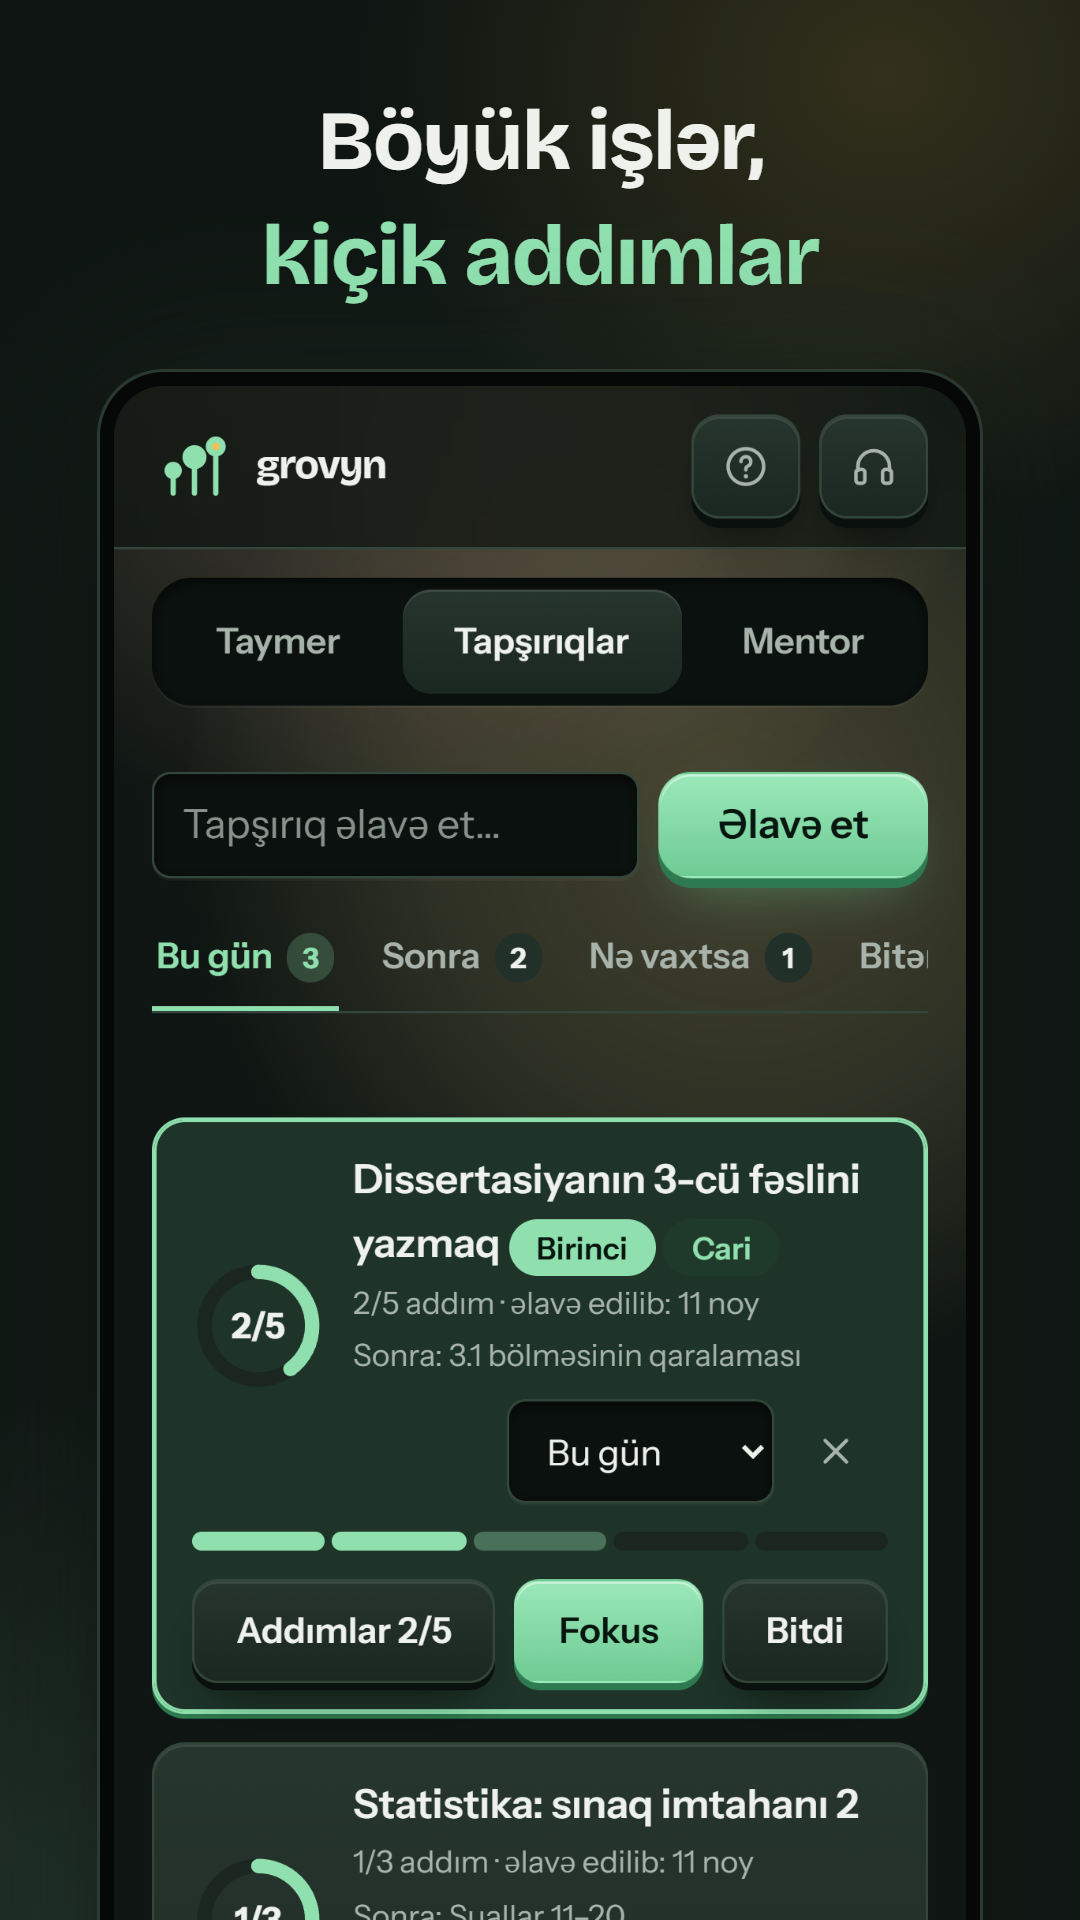
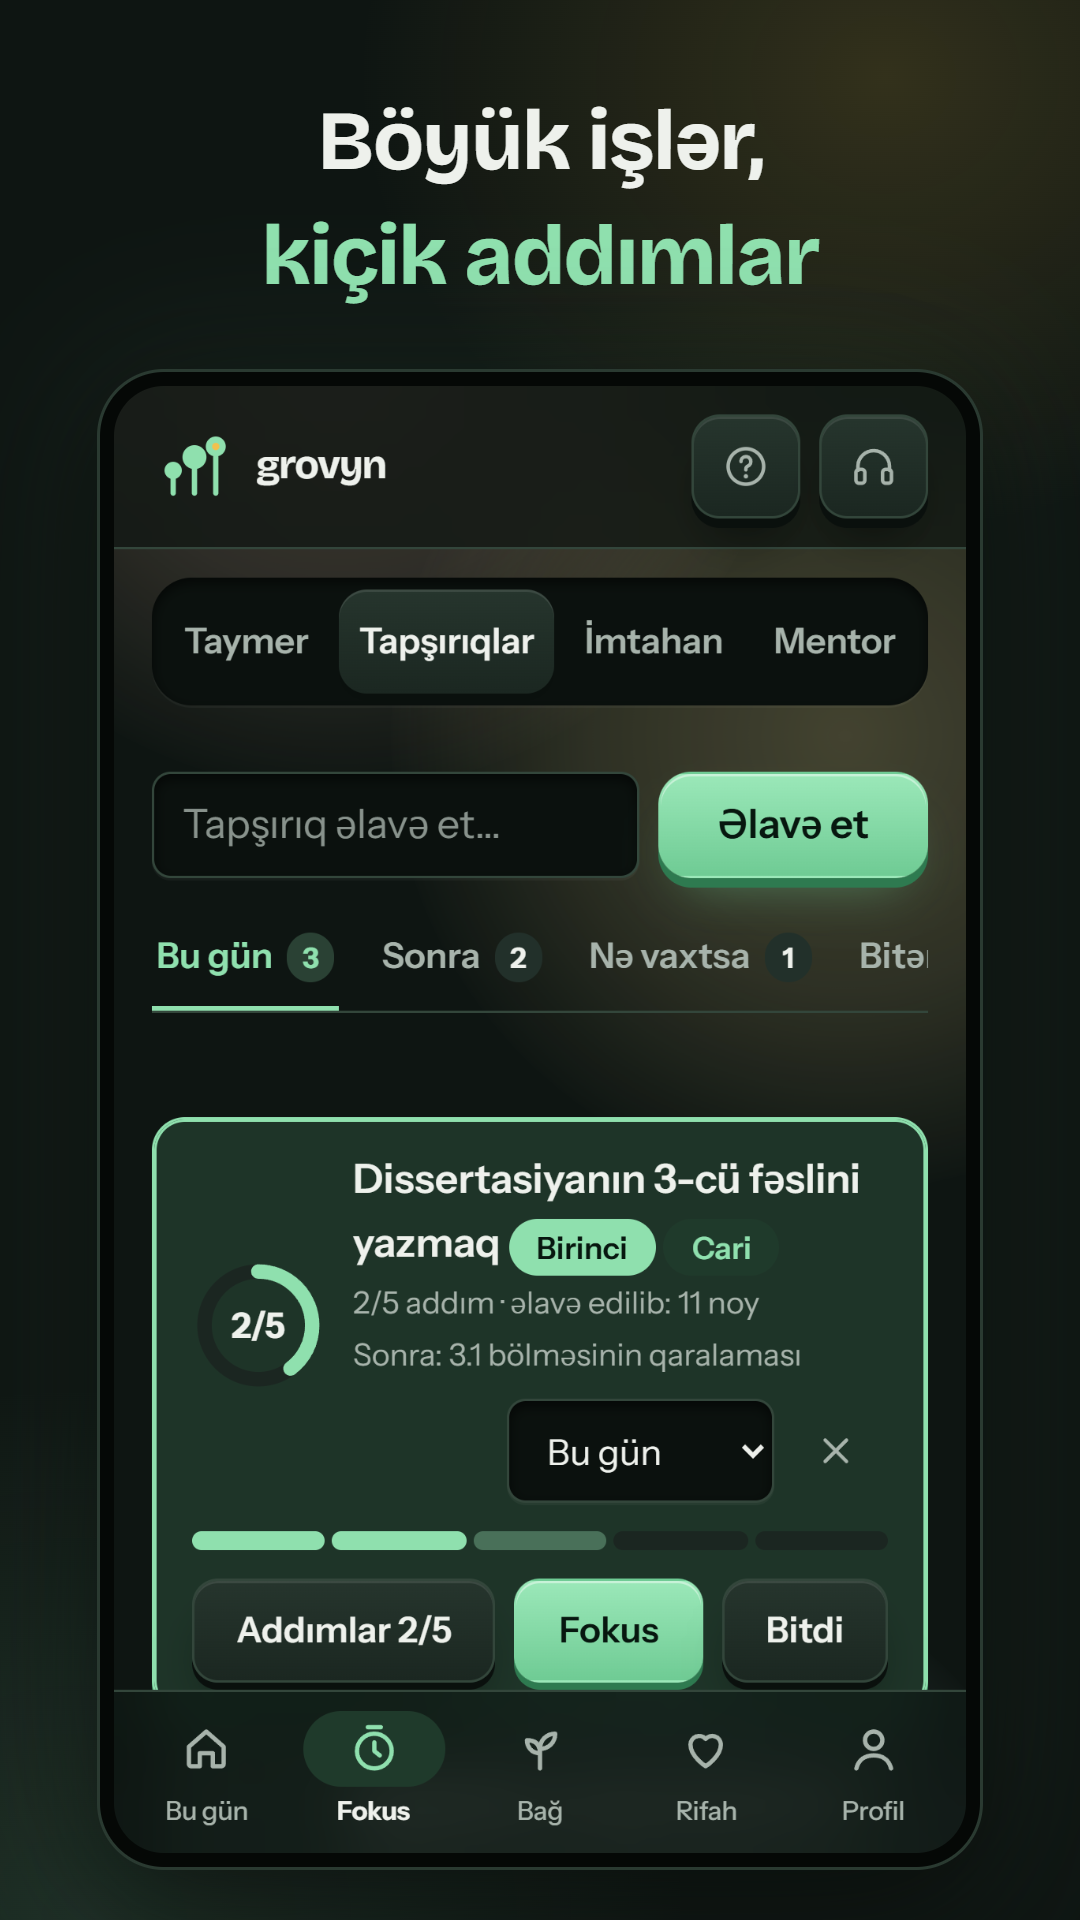
Play: a closed-test checklist, and store screenshots that show the five-tab app
docs/closed-test.md walks through the closed test in order: the upload key, the signed
bundle, Play Console, both SHA-1s in Firebase, 15+ testers for 14 days, then production.
It has tester invites and release notes in English, Russian and Azerbaijani, and a log
for the production application.

The store screenshots showed the old four-tab bar, cut off below the frame. Every screen
frame is now made with Health and Budget on (one Life tab) on a shorter phone, so the
whole five-tab bar is in view. Russian and Azerbaijani show «Ментор» and «Rifah».

Changed region(s): [[0.0917, 0.875, 0.9167, 1.0], [0.1833, 0.2812, 0.825, 0.4062], [0.3361, 0.4375, 0.6417, 0.5938]]

diff --git a/docs/closed-test.md b/docs/closed-test.md
@@ -1,0 +1,134 @@
+# Closed test on Google Play
+
+New personal developer accounts must run a **closed test with at least 12 testers opted in
+for 14 days in a row** before they can apply for production. This page is the checklist,
+in order. Each step says who does it. How to build and sign is in `release.md`. The Console
+answers are in `play-console-answers.md`, and the listing text is in `play-listing.md`.
+
+Prepared 14 Nov 2026. The Play bundle (`app.grovyn`, version 0.1.0, versionCode 100) builds
+with `npm run release`, signed with the upload key made on 14 Nov.
+
+## 1. Upload key (you, once, about 5 minutes)
+
+It asks for passwords, so you run it yourself, in a terminal:
+
+```bash
+mkdir -p ~/.grovyn
+"/c/Program Files/Android/Android Studio/jbr/bin/keytool.exe" -genkeypair -v -keystore ~/.grovyn/grovyn-upload.jks -alias upload -keyalg RSA -keysize 2048 -validity 10000
+```
+
+Then create `C:\Users\<you>\.grovyn\keystore.properties` with the four lines from
+`release.md`. **Save the `.jks` file and both passwords in your password manager now.**
+Keep them out of OneDrive and out of the repository.
+
+## 2. Signed bundle (Claude, or you: `npm run release`)
+
+- Builds `grovyn-play-0.1.0.aab` and signs it with the key from step 1.
+- The script says "Signed" or "Not signed". Only a signed one uploads.
+
+## 3. Play Console: create the app (you)
+
+1. *Create app*. Name it **Grovyn**, choose *App*, *Free*, and accept the declarations.
+2. *Test and release → Closed testing → Create track*. Call the track "Friends".
+3. *Testers*: choose **Email list**, make a list called "Grovyn testers", and add the
+   addresses people give you. (A Google Group also works, if you'd rather people join on their own.)
+4. *Feedback URL or email*: `grovyn.support@gmail.com`.
+5. *Countries*: at least Azerbaijan, plus wherever your testers live.
+6. *Create release*:
+   - Upload the `.aab` and keep **Play App Signing** on.
+   - Paste the release notes from section 6 below.
+7. Before the release can go out, Play asks for the forms. Each one has an answer in `play-console-answers.md`:
+   - privacy policy URL;
+   - app access;
+   - ads ("No");
+   - content rating;
+   - target audience;
+   - Data safety;
+   - Health apps and Health Connect declarations;
+   - financial features.
+8. *Store listing*:
+   - short and full description in English, Russian and Azerbaijani (from `play-listing.md`);
+   - icon `public/icons/icon-512.png`;
+   - feature graphic and screenshots from `docs/store/<lang>/`.
+9. *Send for review*. The first review can take a few days. Testers can install once it passes.
+
+## 4. Firebase, right after the first upload (you)
+
+Google sign-in fails in the Play build until both SHA-1s are added to the `app.grovyn` Android
+app in Firebase:
+- the **upload key's** SHA-1, from `keytool -list -v -keystore ~/.grovyn/grovyn-upload.jks -alias upload`;
+- **Play's app signing key's** SHA-1, from *Test and release → App integrity*.
+
+## 5. Testers (you, starting today)
+
+- Ask for **15 or more**. Some people never tap the opt-in link, and you need 12 still opted
+  in on every one of the 14 days.
+- They need an Android phone and the Gmail address they use on Google Play.
+- Each tester must open the **opt-in link** (*Closed testing → Testers → Copy link*) and tap
+  *Become a tester*, then install from Play. Being on the list alone doesn't count.
+- The 14 days start when 12 have opted in. Leaving the test resets nothing for the others,
+  but if fewer than 12 are in on any day, the count starts again.
+- Google also looks at whether testers actually use the app and send feedback, so ask them
+  to open it a few times a week and tell you one thing that confused them.
+
+### Invite (English)
+
+> Hi! I made a small focus app called Grovyn: a timer, tasks in small steps, and a little
+> grove that grows while you focus. Before it goes on Google Play, I need testers for two weeks.
+> Could you help? Send me the Gmail you use on Play. I'll send a link; tap "Become a tester",
+> install it, and open it now and then. If something is confusing, just tell me. No ads, and
+> nothing leaves your phone unless you make an account.
+
+### Приглашение (русский)
+
+> Привет! Я сделал(а) небольшое приложение для фокуса — Grovyn: таймер, задачи маленькими
+> шагами и роща, которая растёт, пока вы работаете. Перед выходом в Google Play нужны
+> тестировщики на две недели. Поможете? Пришлите Gmail, с которым вы заходите в Play. Я пришлю
+> ссылку: нажмите «Стать тестировщиком», установите приложение и иногда открывайте его. Если
+> что-то непонятно — просто напишите. Без рекламы, и данные остаются на телефоне, если не
+> создавать аккаунт.
+
+(Change «сделал(а)» to «сделал» or «сделала» before sending.)
+
+### Dəvət (Azərbaycanca)
+
+> Salam! Grovyn adlı kiçik bir fokus tətbiqi hazırlamışam: taymer, kiçik addımlarla işlər və
+> sən işlədikcə böyüyən bir bağ. Google Play-ə çıxmazdan əvvəl iki həftəlik testçilərə ehtiyacım
+> var. Kömək edərsən? Play-də istifadə etdiyin Gmail ünvanını göndər. Sənə link atacam:
+> «Testçi ol» düyməsinə bas, tətbiqi quraşdır və arabir aç. Nəsə anlaşılmaz olsa, sadəcə yaz.
+> Reklam yoxdur, hesab yaratmasan, məlumatlar telefonunda qalır.
+
+## 6. Release notes for the test
+
+These go in the release's notes, under 500 characters each.
+
+```
+<en-US>
+First test version. Try the timer, break a task into steps, and watch your grove grow. Health, Budget and Screen time are optional; turn them on under You. Tell us what confused you: grovyn.support@gmail.com
+</en-US>
+<ru-RU>
+Первая тестовая версия. Попробуйте таймер, разбейте задачу на шаги и посмотрите, как растёт роща. Здоровье, Бюджет и Экранное время — по желанию, их можно включить в Профиле. Напишите, что было непонятно: grovyn.support@gmail.com
+</ru-RU>
+<az-AZ>
+İlk test versiyası. Taymeri sına, bir işi addımlara böl və bağının necə böyüdüyünə bax. Sağlamlıq, Büdcə və Ekran vaxtı istəyə bağlıdır, Profildə yandıra bilərsən. Nə anlaşılmaz oldusa, yaz: grovyn.support@gmail.com
+</az-AZ>
+```
+
+## 7. During the 14 days (both)
+
+- Keep a short log below: who joined, what they said, and what changed.
+  When you apply for production, Google asks how you recruited testers, what feedback you got
+  and what you changed. The log is the answer.
+- Ship fixes as new versions (bump with `npm version patch --no-git-tag-version`, then
+  `npm run release`). New uploads don't reset the 14 days.
+
+## 8. Apply for production (you, after day 14)
+
+*Dashboard → Apply for production*. Answer from the log. Review usually takes up to a week.
+
+## Log
+
+| Date | What happened |
+|---|---|
+| 14 Nov 2026 | Checklist written; Play bundle builds unsigned, waiting on the upload key. |
+| 14 Nov 2026 | Upload key made (`CN=Grovyn`, valid to 2054). `grovyn-play-0.1.0.aab` built and signed. Upload key SHA-1 `FD:3B:FE:F7:AD:FB:EF:AA:CD:B4:FE:27:BB:CC:E8:86:4D:91:0D:0A` (add to Firebase, step 4). |

diff --git a/docs/decisions.md b/docs/decisions.md
@@ -6,6 +6,13 @@ canvases are private pages and this repository is public, so their links are not
 
 ## 2026-11
 
+- **14 Nov · Closed test prepared.** `docs/closed-test.md` is the step-by-step list (key, Console,
+  testers, Firebase SHA-1s, release notes, invites in three languages). The Play bundle builds;
+  the owner made the upload key the same day and the signed bundle is built. Store screenshots in all three languages were
+  regenerated: every screen frame now shows the five-tab app (Health and Budget on, one Life
+  tab) with the tab bar in view, and RU/AZ show «Ментор» and «Rifah». The upload key is made
+  with `CN=Grovyn` only, so no personal details sit in the certificate.
+
 - **14 Nov · Chain kinds sync.** A chain's kind and what you fill in each day (slots, amounts,
   notes) now go to the account, so the site matches the phone. Still left out of the backup
   file. Workout-linked chains are only worked out on a device that has workouts.

diff --git a/docs/release.md b/docs/release.md
@@ -56,3 +56,4 @@ upload (`npm version patch --no-git-tag-version`).
   widgets* says so and opens Android's *Alarms & reminders* screen.
 
 Play Console answers (Data safety, declarations) are in `docs/play-store-readiness.md`.
+The closed test, step by step, is in `docs/closed-test.md`.
